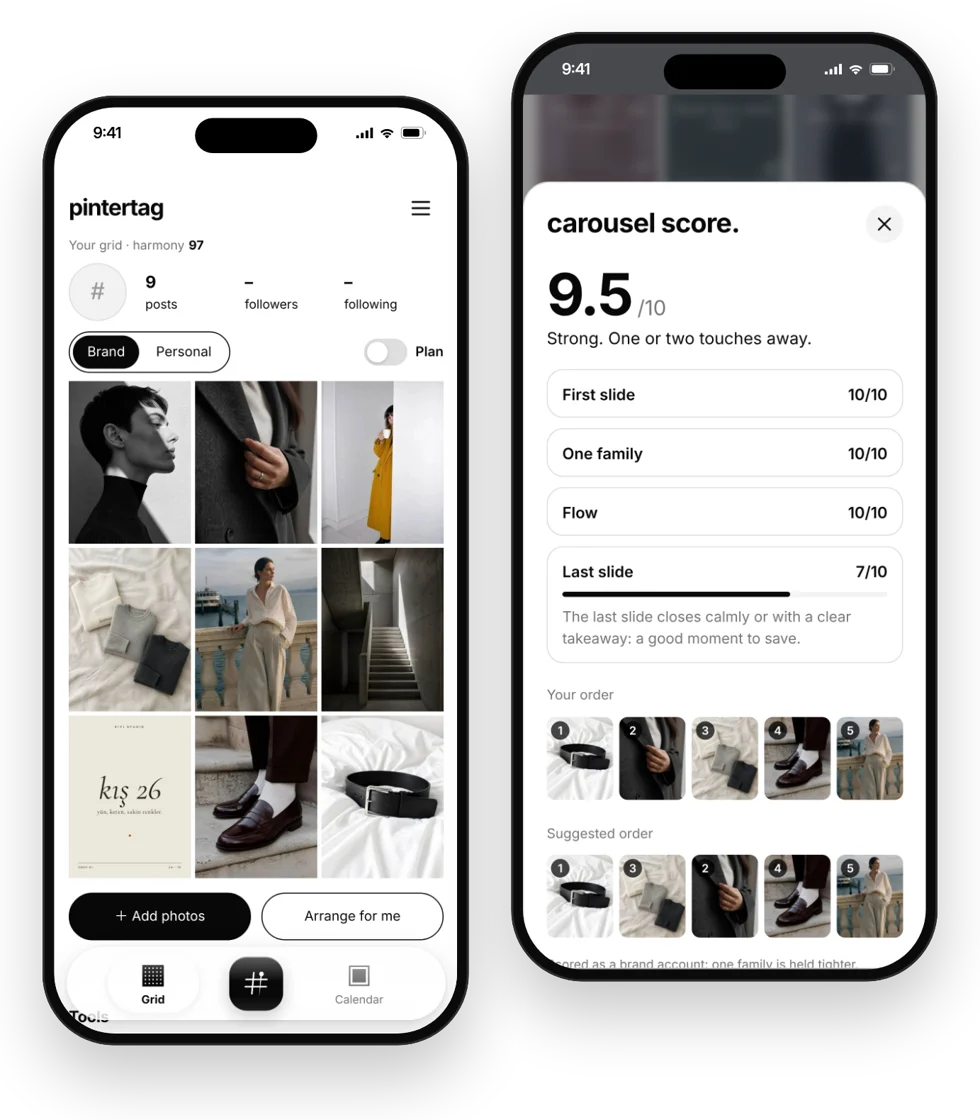
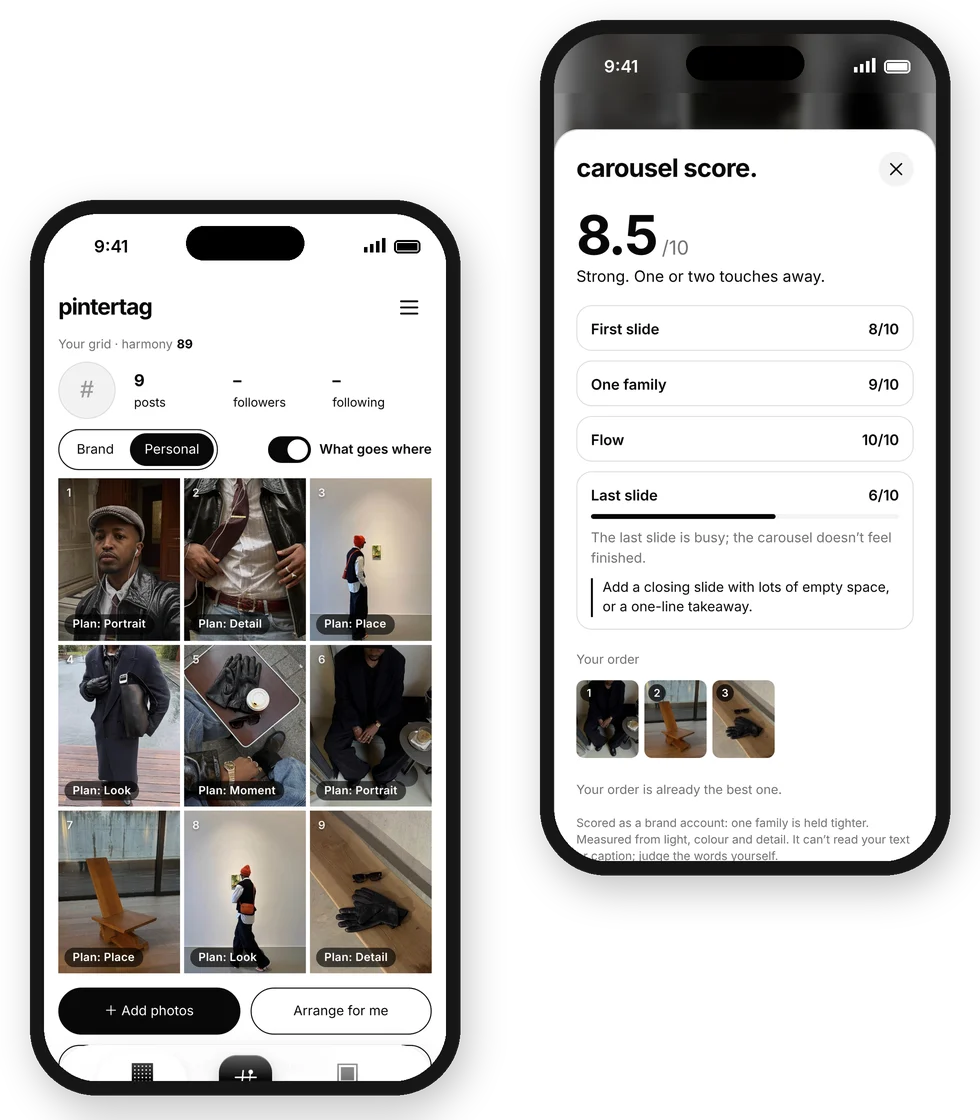
Plan labels as readable chips; new phone mockup with own photos
Claude-Session: https://claude.ai/code/session_01XXeoYM274dKgVk3FiJ2ghd

diff --git a/app/index.html b/app/index.html
@@ -1,5 +1,5 @@
 <!doctype html>
-<html lang="en"><head><meta charset="utf-8"><meta name="viewport" content="width=device-width,initial-scale=1,viewport-fit=cover"><meta name="theme-color" content="#ffffff"><meta name="apple-mobile-web-app-capable" content="yes"><meta name="description" content="Pintertag is your feed’s art director: score your Instagram grid, plan your next 9 posts, and keep your style consistent."><title>Pintertag — Your feed’s art director</title><link rel="icon" href="assets/logo.png"><link rel="manifest" href="manifest.webmanifest"><link rel="apple-touch-icon" href="assets/icon-180.png"><meta name="apple-mobile-web-app-title" content="Pintertag"><meta name="apple-mobile-web-app-status-bar-style" content="default"><meta name="mobile-web-app-capable" content="yes"><link rel="stylesheet" href="style.css?v=109"><script>/* desktop: show the app inside an iPhone frame. phones and the framed copy run the app as usual. */
+<html lang="en"><head><meta charset="utf-8"><meta name="viewport" content="width=device-width,initial-scale=1,viewport-fit=cover"><meta name="theme-color" content="#ffffff"><meta name="apple-mobile-web-app-capable" content="yes"><meta name="description" content="Pintertag is your feed’s art director: score your Instagram grid, plan your next 9 posts, and keep your style consistent."><title>Pintertag — Your feed’s art director</title><link rel="icon" href="assets/logo.png"><link rel="manifest" href="manifest.webmanifest"><link rel="apple-touch-icon" href="assets/icon-180.png"><meta name="apple-mobile-web-app-title" content="Pintertag"><meta name="apple-mobile-web-app-status-bar-style" content="default"><meta name="mobile-web-app-capable" content="yes"><link rel="stylesheet" href="style.css?v=110"><script>/* desktop: show the app inside an iPhone frame. phones and the framed copy run the app as usual. */
 (function(){var q=new URLSearchParams(location.search),inFrame=q.get('pt-frame')==='1';
 if(inFrame){document.documentElement.classList.add('pt-in-frame');return}
 var wide=matchMedia('(min-width:760px) and (min-height:640px)').matches,touch=matchMedia('(hover:none) and (pointer:coarse)').matches;
@@ -15,5 +15,5 @@ addEventListener('message',async function(e){var d=e.data;if(e.origin!==location
 <header class="top"><a href="#" class="wordmark" aria-label="Pintertag"><img src="assets/logo.png" alt="">pintertag</a><div class="top-actions"><button id="language" class="text-button">EN</button><button id="appearance" class="icon-button" aria-label="Tema değiştir">◐</button><button id="enter" class="pill solid"></button></div></header>
 <main id="main"></main><nav id="appnav" aria-label="Ana menü" hidden></nav>
 <dialog id="modal"><div class="modal-top"><h2 id="modal-title"></h2><button class="icon-button" id="close-modal" aria-label="Kapat"><svg width="14" height="14" viewBox="0 0 14 14" aria-hidden="true"><path d="M1.5 1.5l11 11M12.5 1.5l-11 11" stroke="currentColor" stroke-width="1.6" stroke-linecap="round" fill="none"/></svg></button></div><div id="modal-body"></div></dialog>
-<div id="toast" role="status" aria-live="polite"></div><input id="upload" type="file" accept="image/jpeg,image/png,image/webp" multiple hidden><script src="store.js?v=6"></script><script src="engine.js?v=71"></script><script src="app.js?v=2"></script><script src="save.js"></script><script src="stats.js?v=1"></script><script src="studio.js?v=2"></script><script src="brand.js"></script><script src="simple.js?v=74"></script><script src="edit.js?v=2"></script><script src="stories.js"></script><script src="drag.js"></script><script src="settings.js?v=3"></script><script src="planning.js"></script><script src="credits.js"></script><script src="score.js?v=5"></script><script src="merge.js?v=79"></script><script src="share.js"></script><script src="gridcheck.js?v=720"></script><script src="importgrid.js?v=704"></script><script src="purpose.js"></script><script src="vibe.js?v=2"></script><script src="beforeafter.js?v=71"></script><script src="motion.js"></script><script src="legal.js?v=8"></script><script src="account.js?v=6"></script><script src="progress.js?v=73"></script><script src="planpick.js"></script><script src="labels.js?v=74"></script><script src="autotype.js?v=76"></script><script src="booth.js?v=15"></script><script src="profile.js?v=3"></script><script src="plan.js?v=4"></script><script src="carousel.js?v=7"></script><script src="fit.js?v=2"></script><script src="home.js?v=14"></script><script src="postweek.js?v=3"></script><script src="spaces.js?v=1"></script><script src="reels.js?v=2"></script><script src="cloud.js?v=8"></script><script>if('serviceWorker' in navigator&&(location.protocol==='https:'||location.hostname==='localhost')&&!/claude/.test(location.hostname)&&!document.documentElement.classList.contains('pt-in-frame'))addEventListener('load',function(){navigator.serviceWorker.register('sw.js').catch(function(){});if(navigator.storage&&navigator.storage.persist)navigator.storage.persist().catch(function(){})});</script>
+<div id="toast" role="status" aria-live="polite"></div><input id="upload" type="file" accept="image/jpeg,image/png,image/webp" multiple hidden><script src="store.js?v=6"></script><script src="engine.js?v=71"></script><script src="app.js?v=2"></script><script src="save.js"></script><script src="stats.js?v=1"></script><script src="studio.js?v=2"></script><script src="brand.js"></script><script src="simple.js?v=74"></script><script src="edit.js?v=2"></script><script src="stories.js"></script><script src="drag.js"></script><script src="settings.js?v=3"></script><script src="planning.js"></script><script src="credits.js"></script><script src="score.js?v=5"></script><script src="merge.js?v=79"></script><script src="share.js"></script><script src="gridcheck.js?v=720"></script><script src="importgrid.js?v=704"></script><script src="purpose.js"></script><script src="vibe.js?v=2"></script><script src="beforeafter.js?v=71"></script><script src="motion.js"></script><script src="legal.js?v=8"></script><script src="account.js?v=6"></script><script src="progress.js?v=73"></script><script src="planpick.js"></script><script src="labels.js?v=74"></script><script src="autotype.js?v=76"></script><script src="booth.js?v=15"></script><script src="profile.js?v=3"></script><script src="plan.js?v=5"></script><script src="carousel.js?v=7"></script><script src="fit.js?v=2"></script><script src="home.js?v=14"></script><script src="postweek.js?v=3"></script><script src="spaces.js?v=1"></script><script src="reels.js?v=2"></script><script src="cloud.js?v=8"></script><script>if('serviceWorker' in navigator&&(location.protocol==='https:'||location.hostname==='localhost')&&!/claude/.test(location.hostname)&&!document.documentElement.classList.contains('pt-in-frame'))addEventListener('load',function(){navigator.serviceWorker.register('sw.js').catch(function(){});if(navigator.storage&&navigator.storage.persist)navigator.storage.persist().catch(function(){})});</script>
 </body></html>

diff --git a/app/sw.js b/app/sw.js
@@ -1,5 +1,5 @@
 /* offline: the whole app is cached on first open; a new deploy (new VERSION) refreshes it */
-const VERSION = 'pt-web-v37';
+const VERSION = 'pt-web-v38';
 const FILES = ["./", "account.js", "app.js", "assets/icon-180.png", "assets/icon-192.png", "assets/icon-512.png", "assets/inspo/brand-0.webp", "assets/inspo/brand-1.webp", "assets/inspo/brand-2.webp", "assets/inspo/brand-3.webp", "assets/inspo/brand-4.webp", "assets/inspo/brand-5.webp", "assets/inspo/brand-6.webp", "assets/inspo/brand-7.webp", "assets/inspo/brand-8.webp", "assets/inspo/personal-0.webp", "assets/inspo/personal-1.webp", "assets/inspo/personal-2.webp", "assets/inspo/personal-3.webp", "assets/inspo/personal-4.webp", "assets/inspo/personal-5.webp", "assets/inspo/personal-6.webp", "assets/inspo/personal-7.webp", "assets/inspo/personal-8.webp", "assets/logo.png", "assets/photo-0.webp", "assets/photo-1.webp", "assets/photo-2.webp", "assets/photo-3.webp", "assets/photo-4.webp", "assets/photo-5.webp", "assets/photo-6.webp", "assets/photo-7.webp", "assets/photo-8.webp", "autotype.js", "beforeafter.js", "booth.js", "carousel.js", "fit.js", "cloud.js", "vendor/supabase.js", "brand.js", "credits.js", "drag.js", "edit.js", "engine.js", "gridcheck.js", "home.js", "importgrid.js", "index.html", "labels.js", "launch.js", "legal.js", "manifest.webmanifest", "merge.js", "motion.js", "plan.js", "planning.js", "planpick.js", "postweek.js", "profile.js", "progress.js", "purpose.js", "reels.js", "save.js", "stats.js", "score.js", "settings.js", "share.js", "simple.js", "spaces.js", "store.js", "stories.js", "studio.js", "style.css", "vibe.js"];
 self.addEventListener('install', e => { e.waitUntil(caches.open(VERSION).then(c => c.addAll(FILES)).then(() => self.skipWaiting())); });
 self.addEventListener('activate', e => { e.waitUntil(caches.keys().then(ks => Promise.all(ks.filter(k => k !== VERSION).map(k => caches.delete(k)))).then(() => self.clients.claim())); });

diff --git a/app/style.css b/app/style.css
@@ -472,7 +472,9 @@ body.dark .pt-ig-empty{color:#999}
 .pt-plan-note{font-size:12px;color:var(--muted);margin:0 0 10px;line-height:1.45}
 .pt-plan-fit{width:100%;margin:0 0 12px;min-height:42px;padding:10px 18px}
 .simple-tile{position:relative}
-.pt-slot-tag{position:absolute;inset:0;display:flex;align-items:center;justify-content:center;background:rgba(0,0,0,.34);color:#fff;font:600 13px "Helvetica Neue",Helvetica,Arial,sans-serif;letter-spacing:.2px;pointer-events:none;text-shadow:0 1px 2px #0003;z-index:3}
+.pt-slot-tag{position:absolute;inset:0;display:flex;align-items:flex-end;justify-content:flex-start;padding:6px;background:none;color:#fff;font:600 11px "Helvetica Neue",Helvetica,Arial,sans-serif;letter-spacing:.2px;pointer-events:none;z-index:3}
+.pt-slot-tag::before{content:attr(data-plan);background:rgba(0,0,0,.62);border-radius:999px;padding:3px 8px;line-height:1.2;white-space:nowrap;max-width:calc(100% - 4px);overflow:hidden;text-overflow:ellipsis}
+.pt-slot-tag b{text-shadow:0 1px 2px #0006}
 .pt-slot-tag b,.pt-slot b{position:absolute;top:7px;left:8px;font-size:11px;font-weight:600;opacity:.85}
 .pt-slot{position:relative;aspect-ratio:3/4;min-width:0;background:var(--c);color:#fff;display:flex;flex-direction:column;align-items:center;justify-content:center;gap:5px;padding:10px;text-align:center;border:0;border-radius:0}
 .pt-slot strong{font-size:14px;font-weight:700;letter-spacing:-.2px}

diff --git a/app/plan.js b/app/plan.js
@@ -42,7 +42,7 @@
     if (!on()) return h;
     let n = 0;
     h = h.replace(/<button class="simple-tile" data-action="s-photo" data-id="[^"]*">/g, m => { const i = n++; if (i > 8) return m; const r = roleAt(i);
-      return m + `<span class="pt-slot-tag" style="--c:${r.c}" aria-hidden="true"><b>${i + 1}</b>${esc(name(r))}</span>`; });
+      return m + `<span class="pt-slot-tag" style="--c:${r.c}" data-plan="${esc(T('Plan: ','Plan: ') + name(r))}" aria-hidden="true"><b>${i + 1}</b></span>`; });
     if (ids.length < 9){
       h = h.replace(/<button class="grid-placeholder"[^>]*>(?:<span aria-hidden="true">＋<\/span>)?<\/button>/g, '');
       const empty = Array.from({ length: 9 - ids.length }, (_, k) => slot(ids.length + k)).join('');

diff --git a/index.html b/index.html
@@ -110,7 +110,7 @@ footer a{color:inherit}
       <div class="also">
         <h2 data-t="alsoH"></h2>
         <p data-t="alsoP"></p>
-        <img class="shots" src="assets/app-phones.webp" width="980" height="1120" alt="" loading="lazy" decoding="async" id="shots">
+        <img class="shots" src="assets/app-phones.webp?v=2" width="980" height="1120" alt="" loading="lazy" decoding="async" id="shots">
         <ul class="feat">
           <li><b data-t="f1"></b><span data-t="f1s"></span></li>
           <li><b data-t="f2"></b><span data-t="f2s"></span></li>
